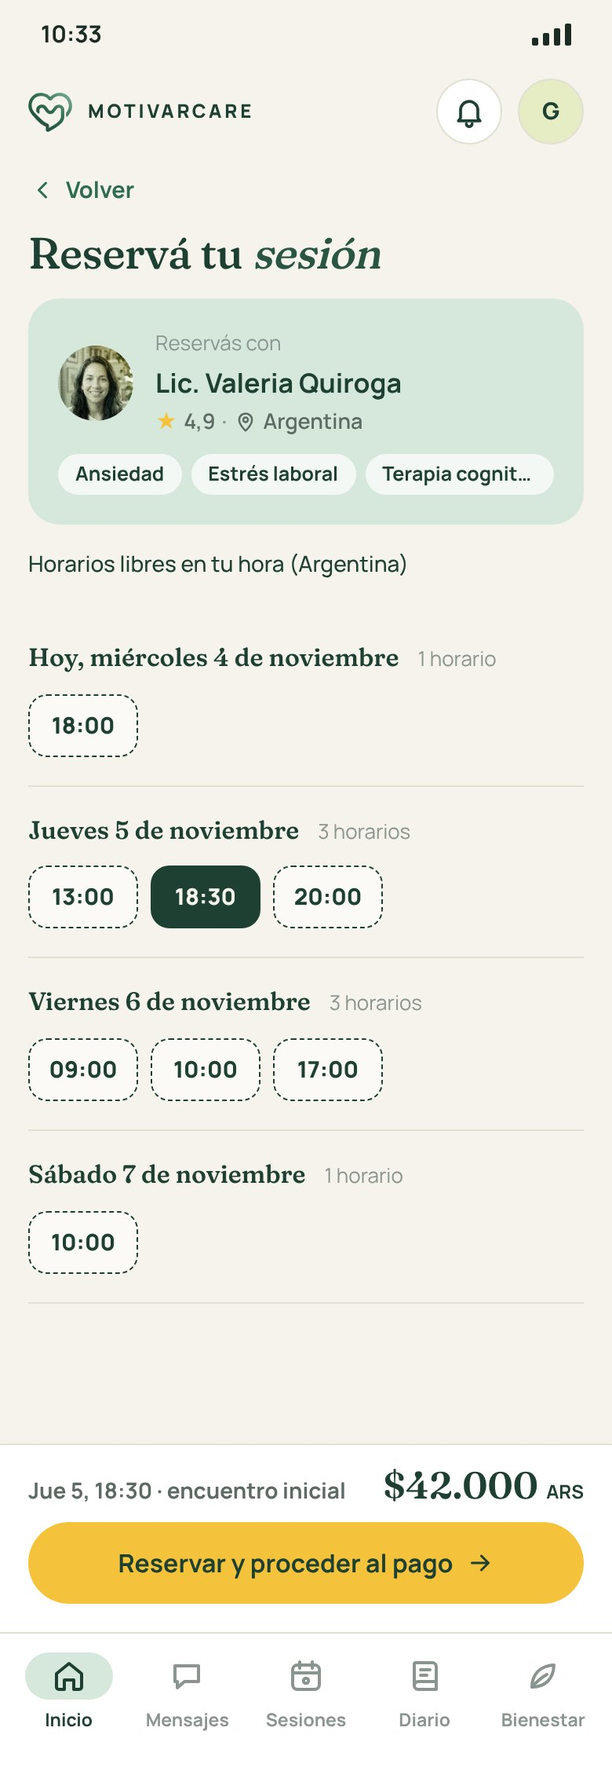
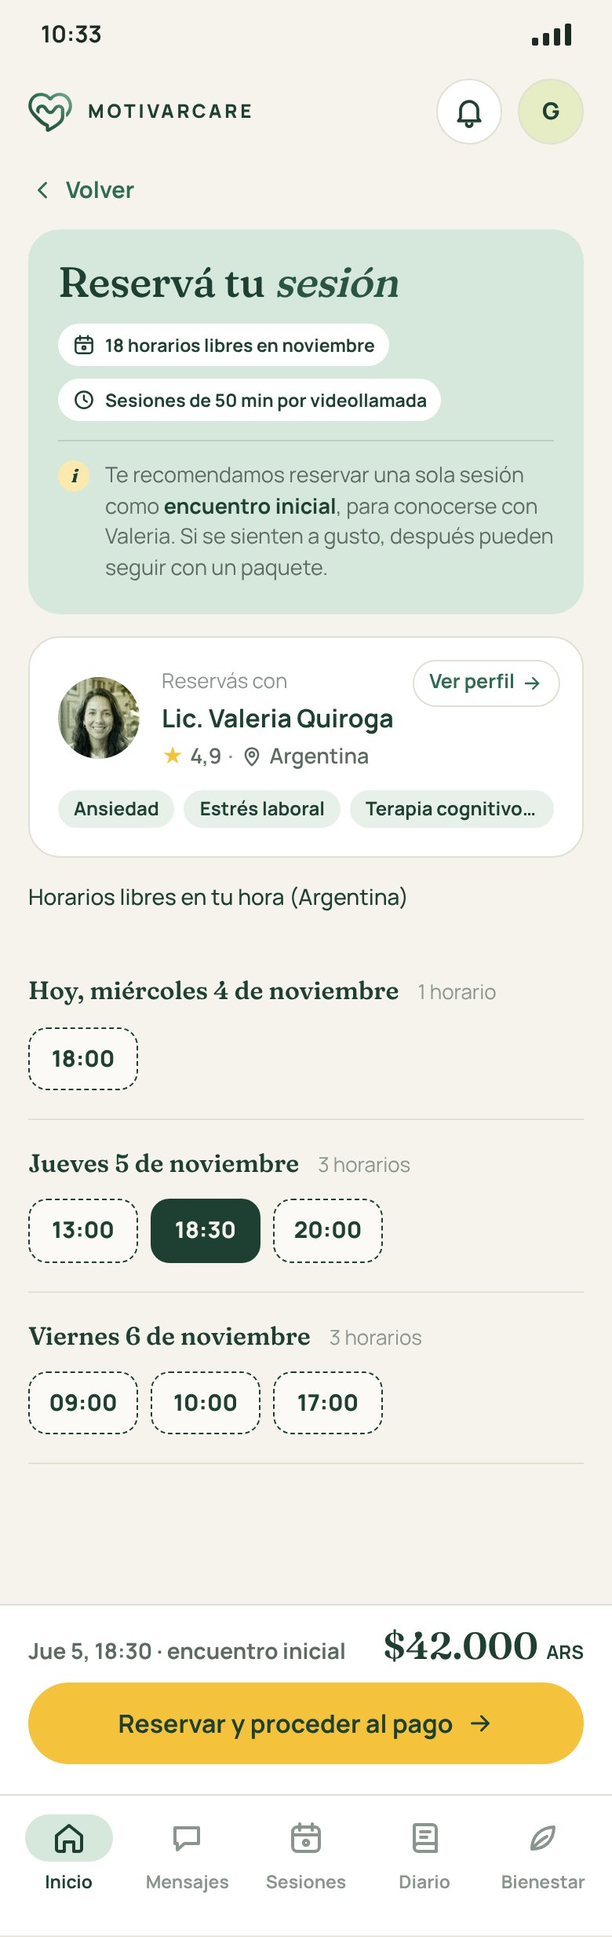
App del usuario: mockup 8, cuarta versión (contexto según el caso)
Tarjeta verde arriba con lo que se está por hacer (primera sesión,
próxima sesión o reprogramar), los horarios libres del mes, la duración
y el dato de cada caso. Debajo, los días con sus horarios. A la derecha,
en escritorio, la tarjeta del terapeuta y "Tu sesión" con el botón.

Claude-Session: https://claude.ai/code/session_01WU1DRuLLvKJwMVuiPWLics

diff --git a/web/public/app-usuario/ronda-2.html b/web/public/app-usuario/ronda-2.html
@@ -768,6 +768,26 @@ ul.lista-simple { padding: 0; }
 .tel .lista-dias .horarios { display: flex; flex-wrap: wrap; gap: 8px; }
 .tel .lista-dias .horario { min-width: 70px; padding: 10px 12px; font-size: 14.5px; }
 .marco.tel.largo .r8tel { padding-bottom: 300px; }
+
+/* Mockup 8 (v4): tarjeta verde de contexto, terapeuta y botón a la derecha */
+.ctx-reserva { display: flex; flex-direction: column; gap: 14px; padding: 26px 28px; }
+.ctx-t { font-size: 38px; }
+.ctx-datos { display: flex; gap: 8px; flex-wrap: wrap; }
+.ctx-datos .chip { gap: 6px; }
+.ctx-datos .chip .ico { width: 15px; height: 15px; }
+.ctx-linea { display: flex; align-items: center; gap: 12px; padding-top: 14px; border-top: 1px solid rgba(30,64,51,.15); font-size: 14.5px; color: var(--bosque); flex-wrap: wrap; }
+.ctx-linea .puntos4 { margin-left: 0; }
+.ctx-linea .chico-b { height: 38px; padding: 0 16px; font-size: 14px; margin-left: auto; }
+.ctx-linea.cambio { flex-direction: column; align-items: flex-start; gap: 2px; }
+.ctx-linea.cambio b { font: 500 20px/1.2 var(--serif); color: var(--bosque); }
+.ctx-nota { padding-top: 12px; border-top: 1px solid rgba(30,64,51,.15); }
+.ctx-nota b { color: var(--bosque); }
+.tel-ctx { padding: 18px; gap: 12px; }
+.tel-ctx .ctx-t { font-size: 27px; }
+.tel-ctx .chip { font-size: 11.5px; padding: 6px 9px; }
+.tel-ctx .ctx-linea.cambio b { font-size: 17px; }
+.ctx-linea .puntos4 i.u { background: var(--bosque); }
+.ctx-linea .puntos4 i { border-color: var(--bosque); }
 </style>
 </head>
 <body>
@@ -1938,8 +1958,8 @@ ul.lista-simple { padding: 0; }
 
 
 <section class="lamina">
-<h2>8 · Reserva en escritorio · "Reservar sesión" (ya pagó)</h2>
-<p class="nota-r2">Arriba, la tarjeta verde con el terapeuta. Debajo, los días con su mes, que se recorren con el scroll de la página, cada uno con sus horarios libres punteados. El botón va en una barra fija abajo, con la sesión elegida. Se reserva una sesión por vez.</p>
+<h2>8 · Reserva en escritorio · caso 2: tu próxima sesión (queda 1 del paquete)</h2>
+<p class="nota-r2">A la izquierda, la tarjeta verde dice qué se está por hacer y da el contexto, y debajo van los días con sus horarios. A la derecha, la tarjeta blanca del terapeuta y "Tu sesión" con el botón amarillo. Como queda una sola sesión del paquete, la tarjeta verde ofrece comprar más.</p>
 <div class="marco esc" id="r2-8-escritorio">
   <aside class="lateral">
     <div class="marca"><img src="../landing/img/logo.svg" alt="">MOTIVARCARE</div>
@@ -1959,29 +1979,50 @@ ul.lista-simple { padding: 0; }
       <span class="boton-icono"><svg class="ico"><use href="#i-campana"/></svg></span>
       <span class="cuenta"><span class="inicial">G</span>Gastón<svg class="ico chico"><use href="#i-abajo"/></svg></span>
     </div>
-    <div class="contenido r8">
-      <a class="enlace volver" style="margin-bottom:10px"><svg class="ico chico"><use href="#i-atras"/></svg>Volver</a>
-      <div class="saludo" style="margin-bottom:18px"><h1 class="t1">Reservá tu próxima <em>sesión</em></h1><p class="bajada">Horarios libres de Valeria, en tu hora (Argentina, GMT-3). Elegí uno.</p></div>
-      <article class="tarjeta salvia pro-arriba">
-        <div class="pa-izq">
-          <img class="avatar" src="../landing/img/profesionales/valeria-quiroga.jpg" alt="" width="64" height="64">
-          <div class="pa-datos"><span class="tenue">Tu terapeuta</span><b>Lic. Valeria Quiroga</b><span class="califica r7"><span class="estrella">★</span> 4,9 <span class="sep">·</span> <span class="pais"><svg class="ico"><use href="#i-pin"/></svg>Argentina</span></span></div>
+    <div class="contenido">
+      <a class="enlace volver" style="margin-bottom:14px"><svg class="ico chico"><use href="#i-atras"/></svg>Volver</a>
+      <div class="grilla-inicio">
+        <div class="columna-izq">
+          <article class="tarjeta salvia ctx-reserva">
+          <h1 class="t1 ctx-t">Reservá tu próxima <em>sesión</em></h1>
+          <div class="ctx-datos"><span class="chip" style="background:var(--superficie)"><svg class="ico chico"><use href="#i-sesiones"/></svg>18 horarios libres en noviembre</span><span class="chip" style="background:var(--superficie)"><svg class="ico chico"><use href="#i-reloj"/></svg>Sesiones de 50 min por videollamada</span></div>
+          <div class="ctx-linea"><span class="puntos4"><i class="u"></i><i class="u"></i><i class="u"></i><i></i></span><span>Te queda <b>1 sesión</b> del paquete de 4 con Valeria.</span><a class="boton contorno chico-b">Comprar más sesiones</a></div>
+        </article>
+          <span class="peq" style="margin:18px 0 0;color:var(--bosque)">Horarios libres de Valeria, en tu hora (Argentina, GMT-3)</span>
+          <div class="lista-dias"><div class="dia-sec"><div class="dia-cab"><b>Hoy, miércoles 4 de noviembre</b><span class="tenue">1 horario</span></div><div class="horarios"><span class="horario">18:00</span></div></div><div class="dia-sec"><div class="dia-cab"><b>Jueves 5 de noviembre</b><span class="tenue">3 horarios</span></div><div class="horarios"><span class="horario">13:00</span><span class="horario elegido">18:30</span><span class="horario">20:00</span></div></div><div class="dia-sec"><div class="dia-cab"><b>Viernes 6 de noviembre</b><span class="tenue">3 horarios</span></div><div class="horarios"><span class="horario">09:00</span><span class="horario">10:00</span><span class="horario">17:00</span></div></div><div class="dia-sec"><div class="dia-cab"><b>Sábado 7 de noviembre</b><span class="tenue">1 horario</span></div><div class="horarios"><span class="horario">10:00</span></div></div><div class="dia-sec"><div class="dia-cab"><b>Lunes 9 de noviembre</b><span class="tenue">4 horarios</span></div><div class="horarios"><span class="horario">09:00</span><span class="horario">13:00</span><span class="horario">15:00</span><span class="horario">18:30</span></div></div></div>
         </div>
-        <div class="pa-der"><div class="pills"><span class="chip">Ansiedad</span><span class="chip">Estrés laboral</span><span class="chip">Terapia cognitivo-conductual</span><span class="chip">Autoestima</span></div><p class="credenciales"><svg class="ico"><use href="#i-escudo"/></svg>Psicóloga clínica (UBA) · Matrícula verificada · 9 años de experiencia</p><span class="pa-extra"><b>2</b> sesiones disponibles con Valeria</span></div>
-      </article>
-      <div class="lista-dias"><div class="dia-sec"><div class="dia-cab"><b>Hoy, miércoles 4 de noviembre</b><span class="tenue">1 horario</span></div><div class="horarios"><span class="horario">18:00</span></div></div><div class="dia-sec"><div class="dia-cab"><b>Jueves 5 de noviembre</b><span class="tenue">3 horarios</span></div><div class="horarios"><span class="horario">13:00</span><span class="horario elegido">18:30</span><span class="horario">20:00</span></div></div><div class="dia-sec"><div class="dia-cab"><b>Viernes 6 de noviembre</b><span class="tenue">3 horarios</span></div><div class="horarios"><span class="horario">09:00</span><span class="horario">10:00</span><span class="horario">17:00</span></div></div><div class="dia-sec"><div class="dia-cab"><b>Sábado 7 de noviembre</b><span class="tenue">1 horario</span></div><div class="horarios"><span class="horario">10:00</span></div></div><div class="dia-sec"><div class="dia-cab"><b>Lunes 9 de noviembre</b><span class="tenue">4 horarios</span></div><div class="horarios"><span class="horario">09:00</span><span class="horario">13:00</span><span class="horario">15:00</span><span class="horario">18:30</span></div></div><div class="dia-sec"><div class="dia-cab"><b>Martes 10 de noviembre</b><span class="tenue">3 horarios</span></div><div class="horarios"><span class="horario">10:00</span><span class="horario">17:00</span><span class="horario">20:00</span></div></div></div>
-    </div>
-    <div class="barra-reserva">
-      <div><span class="et-franja" style="width:auto;color:var(--verde-medio)">Tu sesión</span><b>Jueves 5 de noviembre, 18:30</b><span class="peq">Hora de Argentina · videollamada de 50 min · podés reprogramar sin costo hasta 24 h antes</span></div>
-      <div class="cta"><a class="boton primario grande"><svg class="ico"><use href="#i-sesiones"/></svg>Reservar sesión</a><span class="peq">Usás 1 de tus 2 sesiones disponibles con Valeria</span></div>
+        <div class="columna-der">
+          <article class="tarjeta pro2">
+          <div class="pro2-cab"><a class="ver-perfil">Ver perfil<svg class="ico"><use href="#i-flecha"/></svg></a>
+            <img class="avatar" src="../landing/img/profesionales/valeria-quiroga.jpg" alt="" width="64" height="64">
+            <div>
+              <span class="tenue">Tu terapeuta</span>
+              <b>Lic. Valeria Quiroga</b>
+              <span class="califica"><span class="estrella">★</span> 4,9 <span class="sep">·</span> <span class="pais"><svg class="ico"><use href="#i-pin"/></svg>Argentina</span></span>
+            </div>
+          </div>
+          <div class="pills"><span class="chip">Ansiedad</span><span class="chip">Estrés laboral</span><span class="chip">Terapia cognitivo-conductual</span><span class="chip">Autoestima</span><span class="chip">Vínculos</span></div>
+          <p class="credenciales"><svg class="ico"><use href="#i-escudo"/></svg>Psicóloga clínica (UBA) · Matrícula verificada · 9 años de experiencia</p>
+          
+        </article>
+          <div class="tarjeta reservar-box">
+            <span class="et-franja" style="width:auto;color:var(--verde-medio)">Tu sesión</span>
+            <b class="cuando-box">Jueves 5 de noviembre, 18:30</b>
+            <span class="peq">Hora de Argentina (GMT-3) · 50 min</span>
+            <a class="boton primario grande ancho"><svg class="ico"><use href="#i-sesiones"/></svg>Reservar sesión</a>
+            <span class="peq" style="text-align:center;color:var(--bosque);font-weight:600">Usás tu última sesión disponible con Valeria</span>
+            <span class="peq" style="text-align:center">Podés reprogramar sin costo hasta 24 h antes.</span>
+          </div>
+        </div>
+      </div>
     </div>
   </main>
 </div>
 </section>
 
 <section class="lamina">
-<h2>8 · Reserva en el teléfono · "Reservar y proceder al pago" y "Reprogramar sesión"</h2>
-<p class="nota-r2">La misma pantalla, desde la elección de profesional antes de pagar (izquierda) y desde "Reprogramar" en el Inicio (derecha). Solo cambian el título, el contexto de la tarjeta y el botón amarillo.</p>
+<h2>8 · Reserva en el teléfono · caso 1: primera sesión (sin pagar) · caso 3: reprogramar</h2>
+<p class="nota-r2">Primera sesión con ese terapeuta, antes de pagar (izquierda): la tarjeta verde recomienda el encuentro inicial y el botón es "Reservar y proceder al pago". Reprogramación (derecha): la tarjeta verde muestra la sesión que se cambia y el botón es "Reprogramar sesión".</p>
 <div class="fila-tel">
 <div>
 <div class="marco tel largo" id="r2-8-telefono">
@@ -1994,16 +2035,25 @@ ul.lista-simple { padding: 0; }
   </div>
   <div class="cuerpo-tel r8tel">
     <a class="enlace volver"><svg class="ico chico"><use href="#i-atras"/></svg>Volver</a>
-    <h1 class="t1" style="font-size:28px">Reservá tu <em>sesión</em></h1>
-    <article class="tarjeta salvia pro-arriba tel-arriba">
-        <div class="pa-izq">
-          <img class="avatar" src="../landing/img/profesionales/valeria-quiroga.jpg" alt="" width="48" height="48">
-          <div class="pa-datos"><span class="tenue">Reservás con</span><b>Lic. Valeria Quiroga</b><span class="califica r7"><span class="estrella">★</span> 4,9 <span class="sep">·</span> <span class="pais"><svg class="ico"><use href="#i-pin"/></svg>Argentina</span></span></div>
+    <article class="tarjeta salvia ctx-reserva tel-ctx">
+          <h1 class="t1 ctx-t">Reservá tu <em>sesión</em></h1>
+          <div class="ctx-datos"><span class="chip" style="background:var(--superficie)"><svg class="ico chico"><use href="#i-sesiones"/></svg>18 horarios libres en noviembre</span><span class="chip" style="background:var(--superficie)"><svg class="ico chico"><use href="#i-reloj"/></svg>Sesiones de 50 min por videollamada</span></div>
+          <div class="nota ctx-nota"><i>i</i><span>Te recomendamos reservar una sola sesión como <b>encuentro inicial</b>, para conocerse con Valeria. Si se sienten a gusto, después pueden seguir con un paquete.</span></div>
+        </article>
+    <article class="tarjeta pro2 tel-pro">
+      <div class="pro2-cab"><a class="ver-perfil">Ver perfil<svg class="ico"><use href="#i-flecha"/></svg></a>
+        <img class="avatar" src="../landing/img/profesionales/valeria-quiroga.jpg" alt="" width="52" height="52">
+        <div>
+          <span class="tenue">Reservás con</span>
+          <b>Lic. Valeria Quiroga</b>
+          <span class="califica"><span class="estrella">★</span> 4,9 <span class="sep">·</span> <span class="pais"><svg class="ico"><use href="#i-pin"/></svg>Argentina</span></span>
         </div>
-        <div class="pa-der"><div class="pills"><span class="chip">Ansiedad</span><span class="chip">Estrés laboral</span><span class="chip">Terapia cognitivo-conductual</span><span class="chip">Autoestima</span></div></div>
-      </article>
+      </div>
+      <div class="pills"><span class="chip">Ansiedad</span><span class="chip">Estrés laboral</span><span class="chip">Terapia cognitivo-conductual</span><span class="chip">Autoestima</span><span class="chip">Vínculos</span></div>
+      
+    </article>
     <span class="peq" style="color:var(--bosque)">Horarios libres en tu hora (Argentina)</span>
-    <div class="lista-dias"><div class="dia-sec"><div class="dia-cab"><b>Hoy, miércoles 4 de noviembre</b><span class="tenue">1 horario</span></div><div class="horarios"><span class="horario">18:00</span></div></div><div class="dia-sec"><div class="dia-cab"><b>Jueves 5 de noviembre</b><span class="tenue">3 horarios</span></div><div class="horarios"><span class="horario">13:00</span><span class="horario elegido">18:30</span><span class="horario">20:00</span></div></div><div class="dia-sec"><div class="dia-cab"><b>Viernes 6 de noviembre</b><span class="tenue">3 horarios</span></div><div class="horarios"><span class="horario">09:00</span><span class="horario">10:00</span><span class="horario">17:00</span></div></div><div class="dia-sec"><div class="dia-cab"><b>Sábado 7 de noviembre</b><span class="tenue">1 horario</span></div><div class="horarios"><span class="horario">10:00</span></div></div></div>
+    <div class="lista-dias"><div class="dia-sec"><div class="dia-cab"><b>Hoy, miércoles 4 de noviembre</b><span class="tenue">1 horario</span></div><div class="horarios"><span class="horario">18:00</span></div></div><div class="dia-sec"><div class="dia-cab"><b>Jueves 5 de noviembre</b><span class="tenue">3 horarios</span></div><div class="horarios"><span class="horario">13:00</span><span class="horario elegido">18:30</span><span class="horario">20:00</span></div></div><div class="dia-sec"><div class="dia-cab"><b>Viernes 6 de noviembre</b><span class="tenue">3 horarios</span></div><div class="horarios"><span class="horario">09:00</span><span class="horario">10:00</span><span class="horario">17:00</span></div></div></div>
   </div>
   <div class="barra-pago fija sobre-nav">
     <div class="total"><span>Jue 5, 18:30 · encuentro inicial</span><b>$42.000 <small style="font:700 12px var(--sans)">ARS</small></b></div>
@@ -2030,21 +2080,30 @@ ul.lista-simple { padding: 0; }
   </div>
   <div class="cuerpo-tel r8tel">
     <a class="enlace volver"><svg class="ico chico"><use href="#i-atras"/></svg>Volver</a>
-    <h1 class="t1" style="font-size:28px">Reprogramá tu <em>sesión</em></h1>
-    <article class="tarjeta salvia pro-arriba tel-arriba">
-        <div class="pa-izq">
-          <img class="avatar" src="../landing/img/profesionales/valeria-quiroga.jpg" alt="" width="48" height="48">
-          <div class="pa-datos"><span class="tenue">Tu terapeuta</span><b>Lic. Valeria Quiroga</b><span class="califica r7"><span class="estrella">★</span> 4,9 <span class="sep">·</span> <span class="pais"><svg class="ico"><use href="#i-pin"/></svg>Argentina</span></span></div>
+    <article class="tarjeta salvia ctx-reserva tel-ctx">
+          <h1 class="t1 ctx-t">Reprogramá tu <em>sesión</em></h1>
+          <div class="ctx-datos"><span class="chip" style="background:var(--superficie)"><svg class="ico chico"><use href="#i-sesiones"/></svg>18 horarios libres en noviembre</span><span class="chip" style="background:var(--superficie)"><svg class="ico chico"><use href="#i-reloj"/></svg>Sesiones de 50 min por videollamada</span></div>
+          <div class="ctx-linea cambio"><span class="et-franja" style="width:auto">Estás cambiando</span><b>Viernes 6 de noviembre, 10:00</b></div>
+        </article>
+    <article class="tarjeta pro2 tel-pro">
+      <div class="pro2-cab"><a class="ver-perfil">Ver perfil<svg class="ico"><use href="#i-flecha"/></svg></a>
+        <img class="avatar" src="../landing/img/profesionales/valeria-quiroga.jpg" alt="" width="52" height="52">
+        <div>
+          <span class="tenue">Tu terapeuta</span>
+          <b>Lic. Valeria Quiroga</b>
+          <span class="califica"><span class="estrella">★</span> 4,9 <span class="sep">·</span> <span class="pais"><svg class="ico"><use href="#i-pin"/></svg>Argentina</span></span>
         </div>
-        <div class="pa-der"><div class="pills"><span class="chip">Ansiedad</span><span class="chip">Estrés laboral</span><span class="chip">Terapia cognitivo-conductual</span><span class="chip">Autoestima</span></div><span class="pa-extra">Tu sesión actual: <b>viernes 6, 10:00</b></span></div>
-      </article>
+      </div>
+      <div class="pills"><span class="chip">Ansiedad</span><span class="chip">Estrés laboral</span><span class="chip">Terapia cognitivo-conductual</span><span class="chip">Autoestima</span><span class="chip">Vínculos</span></div>
+      
+    </article>
     <span class="peq" style="color:var(--bosque)">Horarios libres en tu hora (Argentina)</span>
-    <div class="lista-dias"><div class="dia-sec"><div class="dia-cab"><b>Hoy, miércoles 4 de noviembre</b><span class="tenue">1 horario</span></div><div class="horarios"><span class="horario">18:00</span></div></div><div class="dia-sec"><div class="dia-cab"><b>Jueves 5 de noviembre</b><span class="tenue">3 horarios</span></div><div class="horarios"><span class="horario">13:00</span><span class="horario elegido">18:30</span><span class="horario">20:00</span></div></div><div class="dia-sec"><div class="dia-cab"><b>Viernes 6 de noviembre</b><span class="tenue">3 horarios</span></div><div class="horarios"><span class="horario">09:00</span><span class="horario actual">10:00<small>Tu sesión actual</small></span><span class="horario">17:00</span></div></div><div class="dia-sec"><div class="dia-cab"><b>Sábado 7 de noviembre</b><span class="tenue">1 horario</span></div><div class="horarios"><span class="horario">10:00</span></div></div></div>
+    <div class="lista-dias"><div class="dia-sec"><div class="dia-cab"><b>Hoy, miércoles 4 de noviembre</b><span class="tenue">1 horario</span></div><div class="horarios"><span class="horario">18:00</span></div></div><div class="dia-sec"><div class="dia-cab"><b>Jueves 5 de noviembre</b><span class="tenue">3 horarios</span></div><div class="horarios"><span class="horario">13:00</span><span class="horario elegido">18:30</span><span class="horario">20:00</span></div></div><div class="dia-sec"><div class="dia-cab"><b>Viernes 6 de noviembre</b><span class="tenue">3 horarios</span></div><div class="horarios"><span class="horario">09:00</span><span class="horario actual">10:00<small>La que cambiás</small></span><span class="horario">17:00</span></div></div></div>
   </div>
   <div class="barra-pago fija sobre-nav">
     <div class="total"><span>Nueva fecha: jue 5 de noviembre, 18:30</span></div>
     <a class="boton primario grande ancho">Reprogramar sesión<svg class="ico chico"><use href="#i-flecha"/></svg></a>
-    <span class="peq" style="text-align:center;color:var(--bosque);font-weight:600">Sin costo: faltan más de 24 h para tu sesión actual</span>
+    <span class="peq" style="text-align:center;color:var(--bosque);font-weight:600">Sin costo: faltan más de 24 h para tu sesión</span>
   </div>
   <nav class="nav-tel">
     <a class="activo"><span class="pastilla" style="position:relative"><svg class="ico"><use href="#i-inicio"/></svg></span>Inicio</a>

diff --git a/06-app-usuario/historial/ronda-2.md b/06-app-usuario/historial/ronda-2.md
@@ -22,7 +22,7 @@ Cada mockup se hace en escritorio (1440 × 1024) y en teléfono (390 de ancho). 
 | 5 | Elegí a tu profesional · la primera vez, sin cambiar el orden ni el filtro | Primera versión (escritorio y teléfono) |
 | 6 | Elegí a tu profesional · compatibilidad con prioridad a una especialidad | Segunda versión (escritorio y teléfono) |
 | 7 | Contratación · elegí tu paquete | Primera versión (escritorio y teléfono) |
-| 8 | Reserva · elegí día y horario (reservar, reservar y pagar, o reprogramar) | Tercera versión (escritorio y teléfono) |
+| 8 | Reserva · elegí día y horario (primera sesión, próxima sesión o reprogramar) | Cuarta versión (escritorio y teléfono) |
 
 ## Mockups
 
@@ -135,16 +135,16 @@ Cada mockup se hace en escritorio (1440 × 1024) y en teléfono (390 de ancho). 
   </div>
 </article>
 <article class="hecha">
-  <figure><img src="/img/app-usuario/ronda-2/08-reservar-horario-escritorio.jpg" alt="Reserva de día y horario en escritorio, con el botón Reservar sesión" loading="lazy"><figcaption>Escritorio · Reservar sesión</figcaption></figure>
-  <figure class="tel"><img src="/img/app-usuario/ronda-2/08-reservar-horario-telefono.jpg" alt="Reserva de día y horario en el teléfono, con el botón Reservar y proceder al pago" loading="lazy"><figcaption>Teléfono · Reservar y pagar</figcaption></figure>
+  <figure><img src="/img/app-usuario/ronda-2/08-reservar-horario-escritorio.jpg" alt="Reserva de la próxima sesión en escritorio, con una sola sesión disponible" loading="lazy"><figcaption>Escritorio · próxima sesión</figcaption></figure>
+  <figure class="tel"><img src="/img/app-usuario/ronda-2/08-reservar-horario-telefono.jpg" alt="Reserva de la primera sesión en el teléfono, antes de pagar" loading="lazy"><figcaption>Teléfono · primera sesión</figcaption></figure>
   <div class="texto">
-    <span class="chip-estado">Mockup 8 · tercera versión</span>
+    <span class="chip-estado">Mockup 8 · cuarta versión</span>
     <h3>Reserva · elegí día y horario</h3>
-    <p>Arriba, la tarjeta verde con el terapeuta. Debajo, los días (con su mes) y sus horarios libres, que se recorren con el scroll de la página. El botón va en una barra fija abajo y cambia según desde dónde se llega:</p>
+    <p>Una tarjeta verde arriba dice qué se está por hacer, según desde dónde se llega; debajo, los días y sus horarios. A la derecha (en escritorio), el terapeuta y el botón amarillo.</p>
     <ul>
-      <li>"Reservar sesión", si ya pagó.</li>
-      <li>"Reservar y proceder al pago", si todavía no pagó.</li>
-      <li>"Reprogramar sesión", si viene de "Reprogramar".</li>
+      <li><strong>Primera sesión:</strong> recomienda el encuentro inicial; "Reservar y proceder al pago".</li>
+      <li><strong>Próxima sesión:</strong> las sesiones que quedan del paquete (con 1 o 0, "Comprar más sesiones"); "Reservar sesión".</li>
+      <li><strong>Reprogramar:</strong> la sesión que se cambia; "Reprogramar sesión".</li>
     </ul>
     <a class="boton-ver" href="/app-usuario/ronda-2.html#r2-8-escritorio">Ver en tamaño real →</a>
   </div>
@@ -267,23 +267,24 @@ Se llega desde "Ver paquetes" en la elección de profesional (mockups 5 y 6). Pa
 
 ## 8 · Reserva: elegí día y horario
 
-Una sola pantalla para elegir día y horario con un terapeuta, con la navegación del Inicio. Se abre desde cuatro lugares:
+Una sola pantalla para elegir día y horario con un terapeuta, con la navegación del Inicio. Se abre desde cuatro lugares, y lo que muestra depende del caso:
 
-| Desde | Situación | Botón amarillo |
-|---|---|---|
-| Después del pago (mockup 7), sin día y horario elegidos | Ya pagó | **Reservar sesión** |
-| La elección de profesional (mockups 5 y 6) | Todavía no pagó | **Reservar y proceder al pago** |
-| "Ver más horarios" en el Inicio (mockup 2) | Tiene sesiones disponibles | **Reservar sesión** |
-| "Reprogramar" en el Inicio (mockup 1) | Ya tiene la sesión reservada | **Reprogramar sesión** |
+| Desde | Caso | Título de la tarjeta verde | Botón amarillo |
+|---|---|---|---|
+| La elección de profesional (mockups 5 y 6), sin pagar | 1 · Primera sesión con ese terapeuta | Reservá tu sesión | **Reservar y proceder al pago** |
+| Después del pago (mockup 7), sin día y horario | 1 · Primera sesión con ese terapeuta | Reservá tu sesión | **Reservar sesión** |
+| "Ver más horarios" en el Inicio (mockup 2) | 2 · Ya tuvo sesiones con ese terapeuta | Reservá tu próxima sesión | **Reservar sesión** |
+| "Reprogramar" en el Inicio (mockup 1) | 3 · Cambio de una sesión reservada | Reprogramá tu sesión | **Reprogramar sesión** |
 
-- **"Volver"** arriba, y el título según el caso ("Reservá tu próxima sesión", "Reprogramá tu sesión").
-- **Tarjeta verde arriba, con el terapeuta:** foto, nombre, "★ 4,9 · Argentina", especialidades y credenciales, para que no haya dudas de con quién se reserva. Suma el contexto del caso: las sesiones disponibles, o "Tu sesión actual" al reprogramar. La etiqueta es "Tu terapeuta", o "Reservás con" si todavía no contrató.
-- **Los días, fuera de cualquier tarjeta:** cada día es un encabezado de sección con el día y el mes ("Jueves 5 de noviembre", con la cantidad de horarios), y debajo sus horarios libres, con borde punteado. Se recorren con el scroll de la página. El horario elegido va en verde bosque; al reprogramar, la sesión actual se ve en salvia, con "Tu sesión actual".
-- **Una sesión por vez.**
-- **Barra fija abajo** con la sesión elegida y el botón amarillo, siempre a la vista:
-  - **Reservar sesión** (escritorio): "Tu sesión: jueves 5 de noviembre, 18:30" y "Usás 1 de tus 2 sesiones disponibles con Valeria".
-  - **Reservar y proceder al pago** (teléfono): el horario y el precio del encuentro inicial. Después sigue la contratación (mockup 7).
-  - **Reprogramar sesión** (teléfono): la nueva fecha y si el cambio es sin costo (faltan más de 24 h para la sesión actual). Con menos de 24 h, ahí habría que avisar que el cambio no es sin costo.
+- **"Volver"** arriba.
+- **Tarjeta verde salvia arriba, con lo que se está por hacer.** En todos los casos dice cuántos horarios libres tiene el terapeuta en el mes ("18 horarios libres en noviembre") y aclara la duración ("Sesiones de 50 min por videollamada"). Además:
+  - **Caso 1 (primera sesión):** recomienda reservar una sola sesión como **encuentro inicial**, para conocerse con el terapeuta.
+  - **Caso 2 (próxima sesión):** cuántas sesiones quedan del paquete, con los puntos del design system. **Si queda 1 o ninguna, ofrece "Comprar más sesiones"** (en el mockup queda 1).
+  - **Caso 3 (reprogramar):** "Estás cambiando" y la sesión que se reprograma. En la lista, ese horario se ve en salvia con "La que cambiás".
+- **Los días, debajo y fuera de cualquier tarjeta:** cada día es un encabezado con el día y el mes ("Jueves 5 de noviembre", con la cantidad de horarios), y debajo sus horarios libres con borde punteado. Se recorren con el scroll de la página. El horario elegido va en verde bosque. Se reserva una sesión por vez.
+- **A la derecha (escritorio): la tarjeta blanca del terapeuta** (foto, nombre, "★ 4,9 · Argentina", especialidades y credenciales) **y "Tu sesión"** con el día y la hora elegidos y el botón amarillo, debajo de una aclaración del uso de sesiones ("Usás tu última sesión disponible con Valeria") y de la reprogramación sin costo hasta 24 h antes.
+- **En el teléfono:** la tarjeta verde, la del terapeuta (con "Reservás con" si todavía no contrató), los días, y el botón en una barra fija sobre la navegación, con el horario elegido (y el precio, si falta pagar). Al reprogramar, la barra muestra la nueva fecha y si el cambio es sin costo. Con menos de 24 h para la sesión actual, el cambio no es sin costo: falta definir qué se muestra en ese caso.
+- **En el mockup:** escritorio, caso 2 con 1 sesión disponible; teléfono, caso 1 antes de pagar y caso 3.
 
 ## Decisiones de la ronda
 
@@ -313,3 +314,4 @@ En la primera versión del mockup 5, "Especialidad" era un tercer criterio de or
 - En las tarjetas de los terapeutas, el botón "Elegir" pasa a ser **"Ver paquetes"**, junto al enlace "Ver perfil y horarios", para alentar a contratar y pagar lo antes posible.
 - **Mockup 8, segunda versión:** en lugar de elegir un día por vez, la reserva mantiene la estructura del mockup 2 y los días se recorren con scroll, cada uno con sus horarios debajo. Se reserva una sesión por vez (se saca "Todas las semanas").
 - **Mockup 8, tercera versión:** la tarjeta verde pasa arriba con los datos del terapeuta; los días (con su mes) y sus horarios quedan fuera de cualquier tarjeta y se recorren con el scroll de la página; el botón va en una barra fija abajo. Se suman los tres botones según el caso: "Reservar sesión", "Reservar y proceder al pago" y "Reprogramar sesión".
+- **Mockup 8, cuarta versión:** vuelven a la derecha (en escritorio) la tarjeta blanca del terapeuta y el botón amarillo. Arriba de los días, una tarjeta verde salvia dice qué se está por hacer según el caso (primera sesión, próxima sesión o reprogramar), con los horarios libres del mes, la duración de las sesiones y el dato propio de cada caso (encuentro inicial, sesiones que quedan con "Comprar más sesiones", o la sesión que se cambia).
